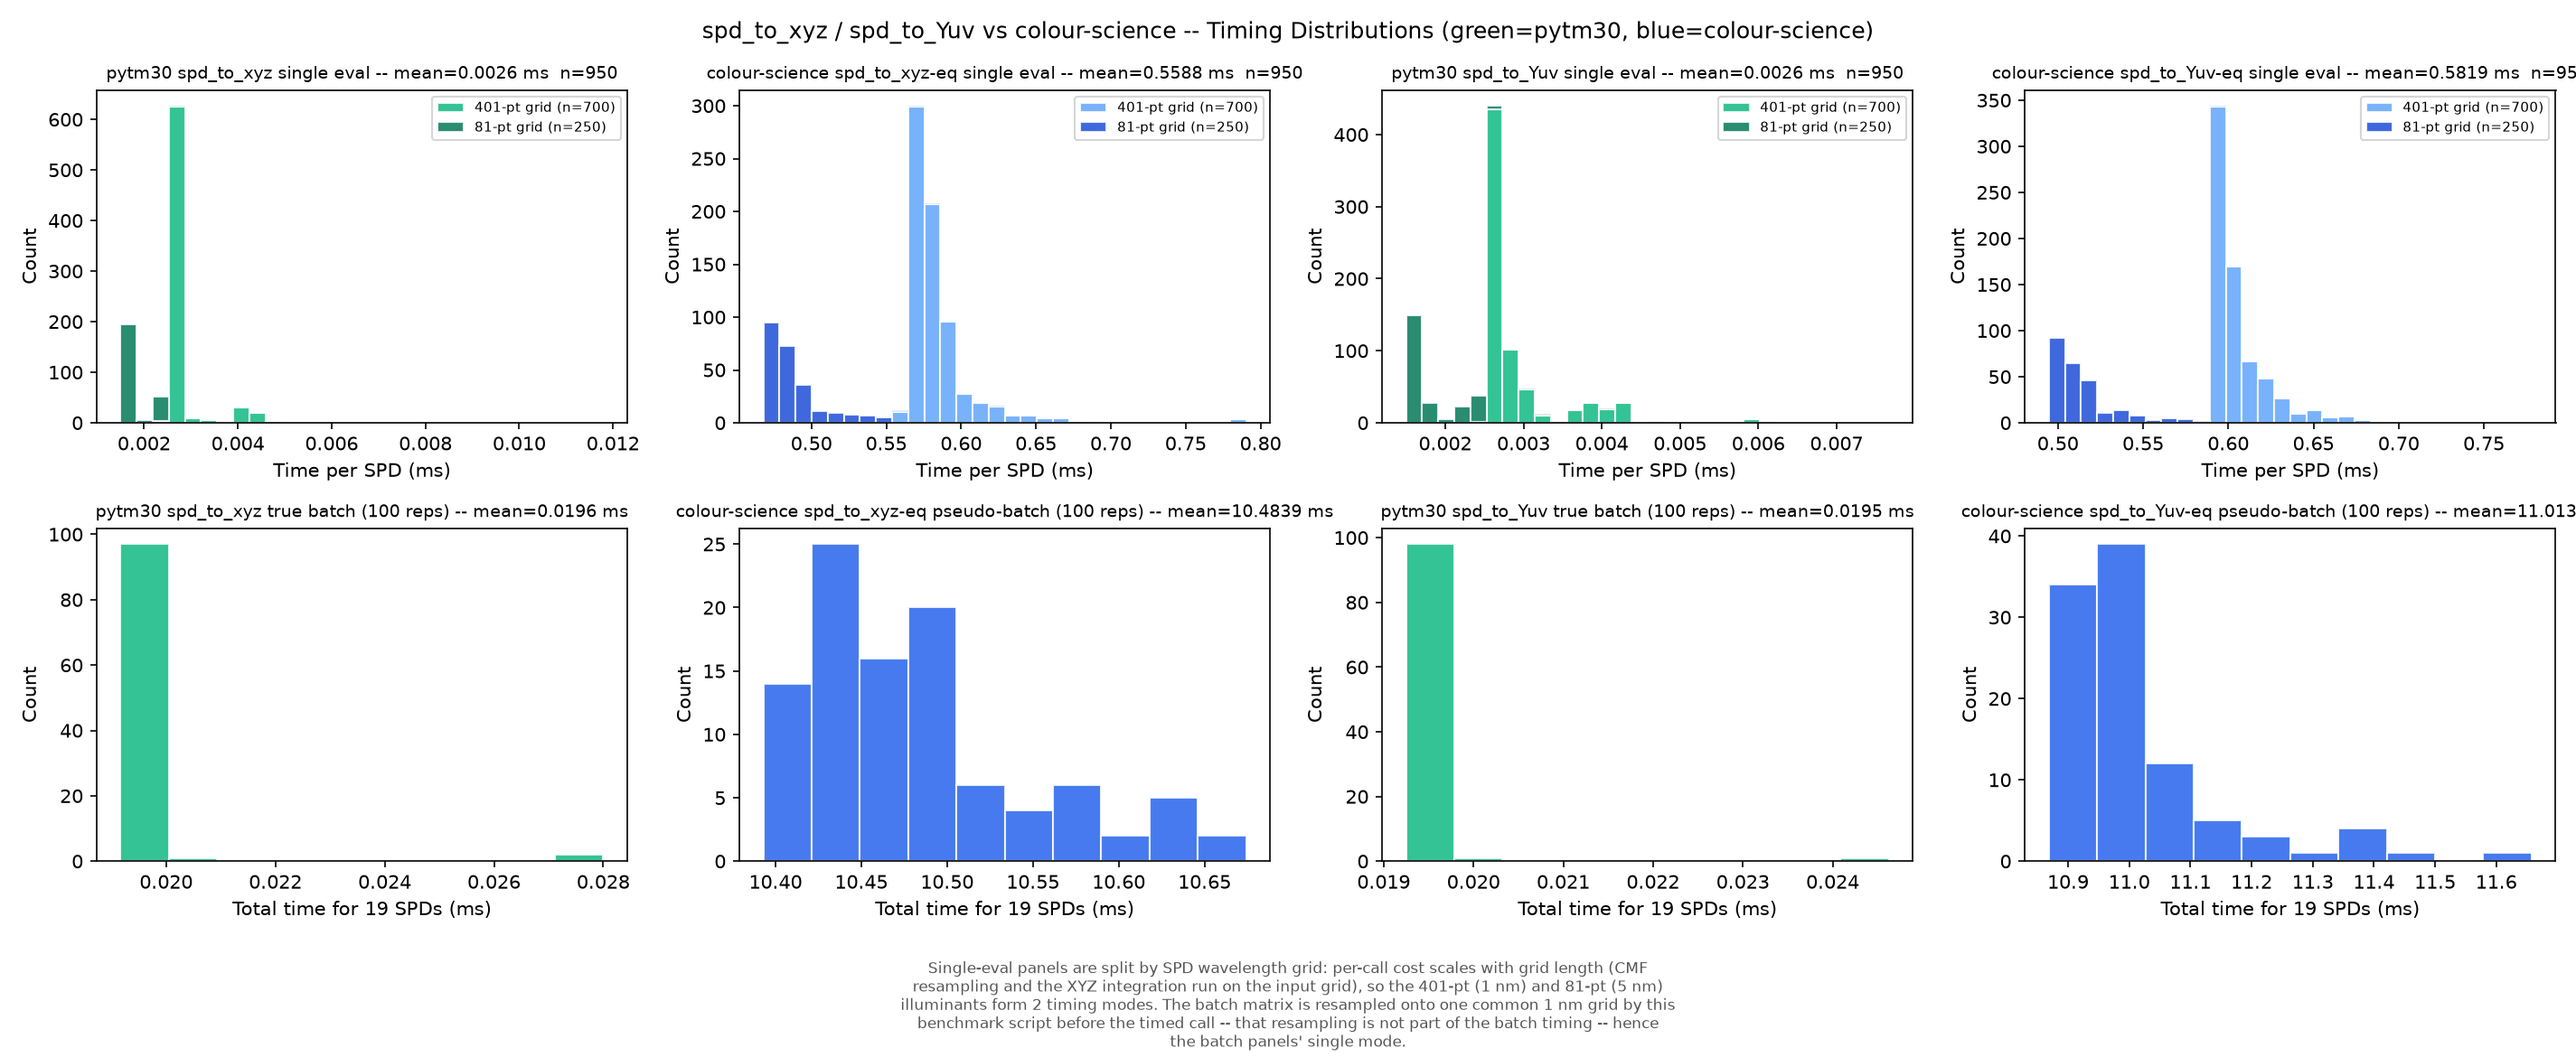
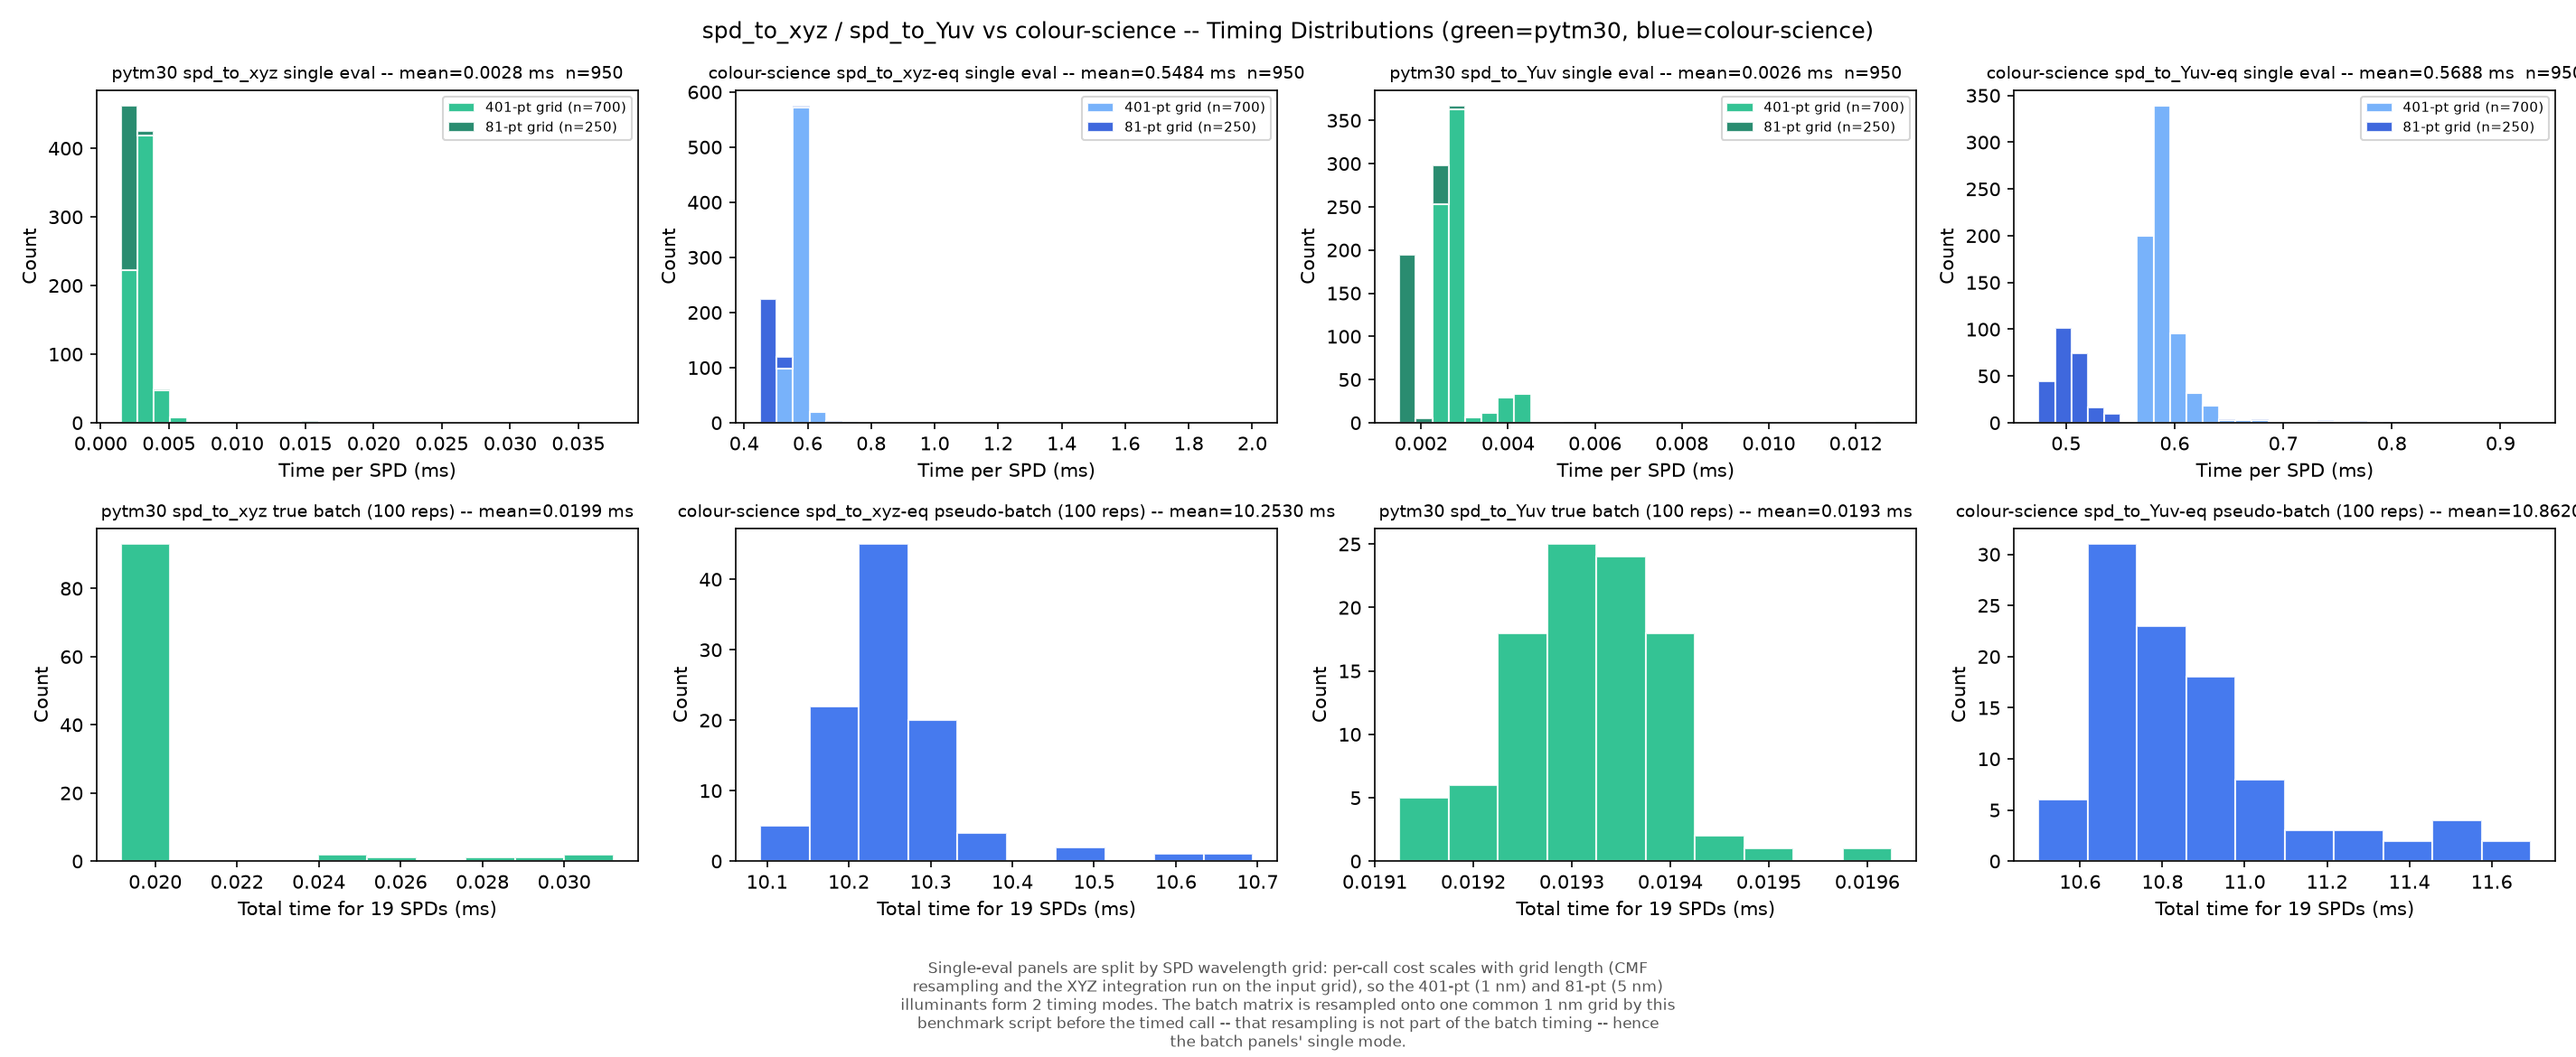
Re-run the benchmark suite and refresh the README claims block
Both scripts' committed report/plot outputs and the README's generated
speedup table were stale from before this branch's optimisation work
(9.4x/7.9x). Re-run on this machine (Apple M4 Pro, macOS power mode 0,
automatic) now shows 13.0x single eval and 11.5x batch against
colour-science, and correspondingly larger speedups in
benchmark_spd_utils_report.txt. The README block and both reports are
regenerated output, not hand-edited.

diff --git a/README.md b/README.md
@@ -61,14 +61,14 @@ corpus (`benchmarks/benchmark_tm30.py`):
 
 | Path | colour-science | pytm30 | Speedup |
 |---|---|---|---|
-| Single eval | 1.074 ms/SPD | 0.114 ms/SPD | **9.4x** |
-| Batch (19 SPDs per call) | 1.064 ms/SPD | 0.135 ms/SPD | **7.9x** |
+| Single eval | 1.050 ms/SPD | 0.081 ms/SPD | **13.0x** |
+| Batch (19 SPDs per call) | 1.049 ms/SPD | 0.091 ms/SPD | **11.5x** |
 
 Accuracy on the same corpus: Rf within 0.004, Rg within
 0.001, and CCT within 0.07 K of colour-science's own
 values.
 
-Measured on: Apple M4 Pro, Python 3.12.13,
+Measured on: Apple M4 Pro, Python 3.14.6,
 numpy 2.5.2, colour-science 0.4.7, macOS power mode 0 (automatic) -- full
 environment and distributions in `benchmarks/benchmark_tm30_report.txt`.
 
